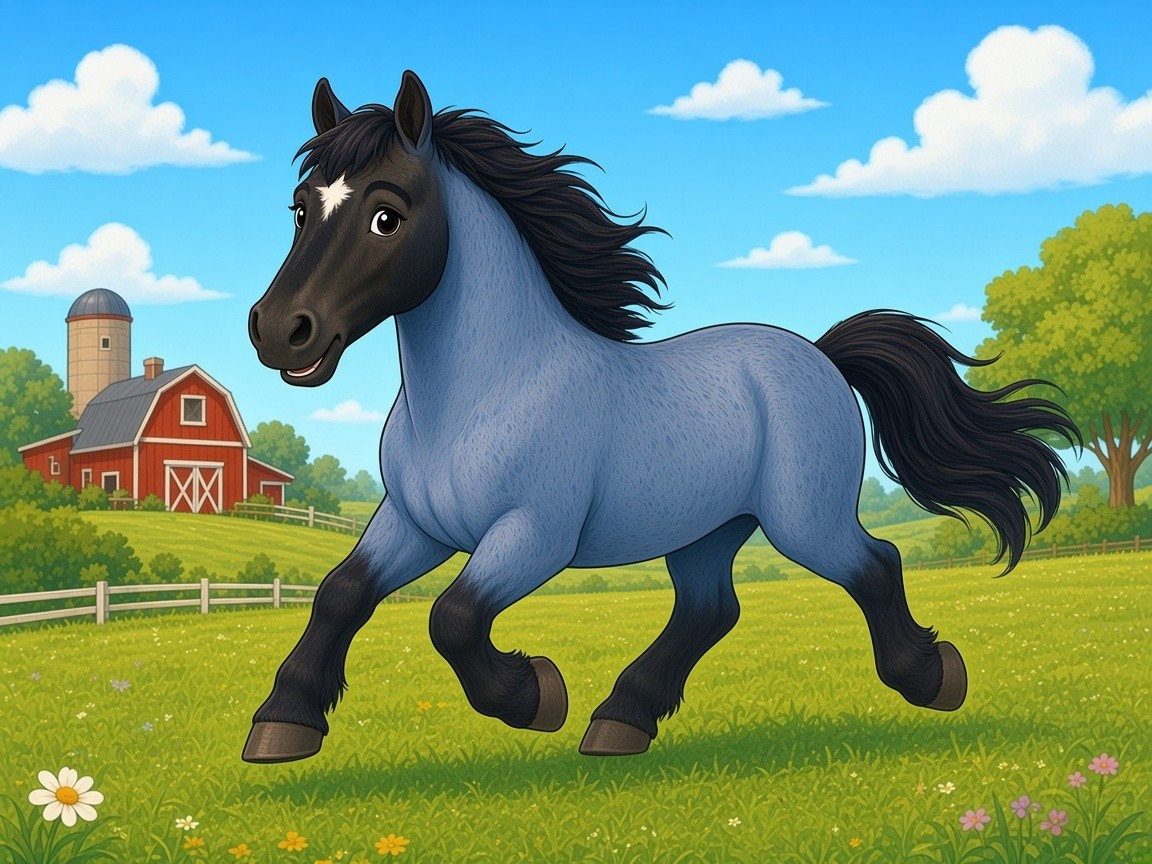
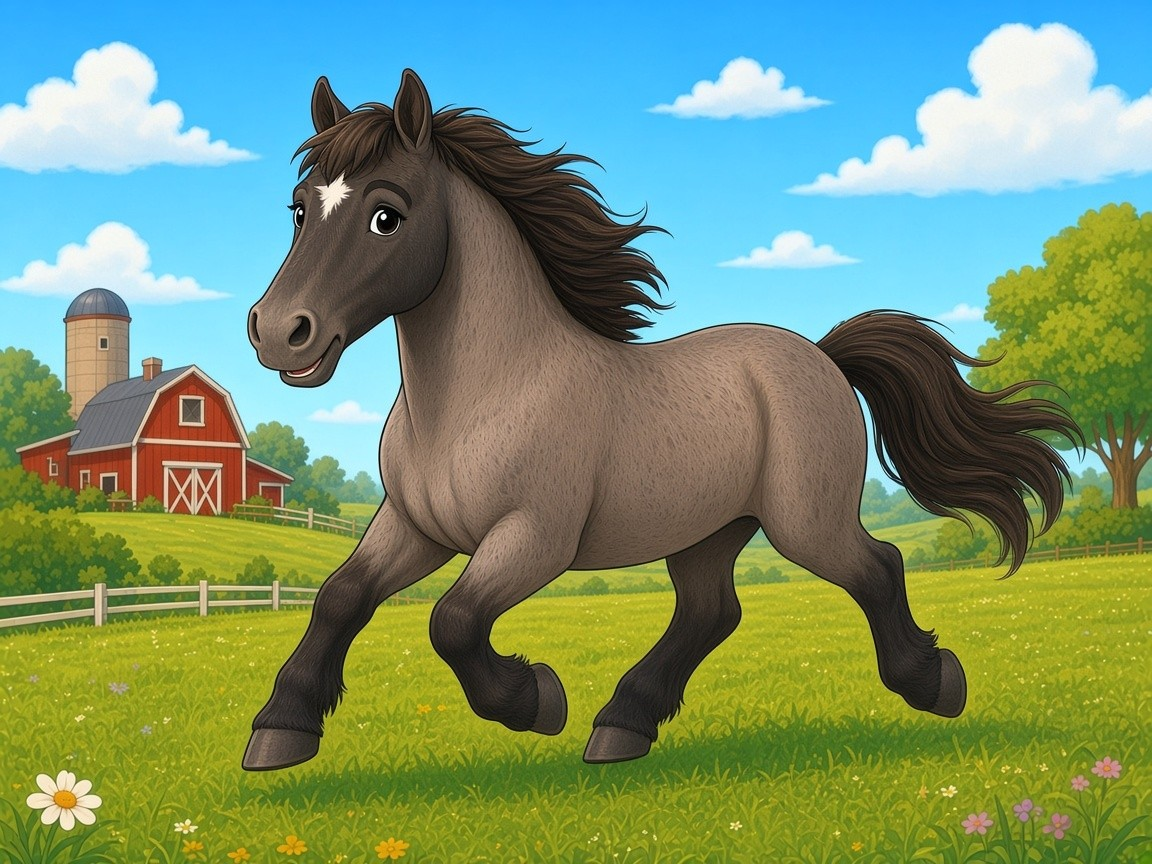
Update River's Run with the gray-coat art and shorter lines.
Each sentence stays on its own line, and the old blue-coat pictures are replaced in place.

diff --git a/stories/books/rivers-run-wolf-cry/index.html b/stories/books/rivers-run-wolf-cry/index.html
@@ -33,8 +33,8 @@
     width: auto;
     height: auto;
     max-width: 100%;
-    max-height: 62vh;
-    max-height: 62dvh;
+    max-height: 52vh;
+    max-height: 52dvh;
   }
 
   .spread-note .frame img {
@@ -49,7 +49,10 @@
     line-height: 1.45;
   }
 
-  .copy p { margin: 0; }
+  .copy p {
+    margin: 0;
+    white-space: pre-line;
+  }
 
   .copy h2 {
     margin: 0 0 10px;
@@ -59,11 +62,6 @@
     letter-spacing: -0.02em;
     line-height: 1.15;
     color: var(--pine-deep);
-  }
-
-  .copy strong {
-    font-weight: 800;
-    color: var(--ember-deep);
   }
 
   .questions {
@@ -184,19 +182,18 @@
   <article class="reader" id="book" aria-label="River's Run: River and the Wolf Cry">
     <section class="spread is-current" aria-label="Cover">
       <figure class="frame">
-        <img src="cover.jpg" width="864" height="1152" alt="Book cover. River the horse stands in a sunny pasture. The title reads River's Run: River and the Wolf Cry." fetchpriority="high">
+        <img src="cover.jpg" width="864" height="1152" alt="Book cover. River, a gray horse with a dark mane, stands in a sunny pasture. The title reads River's Run: River and the Wolf Cry." fetchpriority="high">
       </figure>
-      <div class="copy">
-        <p>River learns why telling the truth matters. A retelling of The Boy Who Cried Wolf.</p>
-      </div>
     </section>
 
     <section class="spread" aria-label="Page 1">
       <figure class="frame">
-        <img src="page01.jpg" width="1152" height="864" alt="River, a horse with a shiny coat and a swishy tail, on a big green farm." loading="lazy">
+        <img src="page01.jpg" width="1152" height="864" alt="River, a gray horse, on a big green farm." loading="lazy">
       </figure>
       <div class="copy">
-        <p>This is River. River is a horse who lives on a big green farm. He has a shiny coat and a swishy tail.</p>
+        <p>This is River.
+River is a horse.
+He lives on a big green farm.</p>
       </div>
     </section>
 
@@ -205,7 +202,10 @@
         <img src="page02.jpg" width="1152" height="864" alt="River watching the field, ready to neigh if he sees danger." loading="lazy">
       </figure>
       <div class="copy">
-        <p>River's job is to watch the field. If he sees danger, he neighs loud: <strong>"NEIGH! NEIGH!"</strong> Then all the animals run to the barn.</p>
+        <p>River has a job.
+He watches the field.
+If he sees danger, he neighs, "NEIGH! NEIGH!"
+Then all the animals run to the barn.</p>
       </div>
     </section>
 
@@ -214,7 +214,8 @@
         <img src="page03.jpg" width="1152" height="864" alt="River looking bored on a sunny day." loading="lazy">
       </figure>
       <div class="copy">
-        <p>One sunny day, River was bored. "Watching is so slow," he sighed.</p>
+        <p>One sunny day, River was bored.
+"Watching is so slow," he sighed.</p>
       </div>
     </section>
 
@@ -223,7 +224,8 @@
         <img src="page04.jpg" width="1152" height="864" alt="River thinking about neighing just for fun." loading="lazy">
       </figure>
       <div class="copy">
-        <p>River had an idea. "What if I neigh loud, just for fun?"</p>
+        <p>River had an idea.
+"What if I neigh, just for fun?"</p>
       </div>
     </section>
 
@@ -232,7 +234,10 @@
         <img src="page05.jpg" width="1152" height="864" alt="The cows, goats, and chickens running all the way to the barn." loading="lazy">
       </figure>
       <div class="copy">
-        <p><strong>"NEIGH! NEIGH! Danger!"</strong> The cows ran. The goats ran. The chickens flapped and squawked all the way to the barn.</p>
+        <p>"NEIGH! NEIGH! Danger!"
+The cows ran.
+The goats ran.
+The chickens flapped all the way to the barn.</p>
       </div>
     </section>
 
@@ -241,16 +246,19 @@
         <img src="page06.jpg" width="1152" height="864" alt="River laughing because he tricked the other animals." loading="lazy">
       </figure>
       <div class="copy">
-        <p>But there was no danger. River laughed. "Hee hee! I tricked you!"</p>
+        <p>But there was no danger.
+River laughed.
+"Hee hee! I tricked you!"</p>
       </div>
     </section>
 
     <section class="spread" aria-label="Page 7">
       <figure class="frame">
-        <img src="page07.jpg" width="1152" height="864" alt="The tired animals, and Old Cow telling River that wasn't nice." loading="lazy">
+        <img src="page07.jpg" width="1152" height="864" alt="The tired animals, and Old Cow telling River that was not nice." loading="lazy">
       </figure>
       <div class="copy">
-        <p>The animals were tired and sad. "That wasn't nice, River," said Old Cow.</p>
+        <p>The animals were tired and sad.
+"That was not nice, River," said Old Cow.</p>
       </div>
     </section>
 
@@ -259,34 +267,46 @@
         <img src="page08.jpg" width="1152" height="864" alt="Everyone running again while nobody laughs." loading="lazy">
       </figure>
       <div class="copy">
-        <p>The next day, River did it again. <strong>"NEIGH! NEIGH!"</strong> Everyone ran. No danger again. This time, nobody laughed.</p>
+        <p>The next day, River did it again.
+"NEIGH! NEIGH!"
+Everyone ran.
+There was no danger.
+This time, nobody laughed.</p>
       </div>
     </section>
 
     <section class="spread" aria-label="Page 9">
       <figure class="frame">
-        <img src="page09.jpg" width="1152" height="864" alt="River seeing a real wolf hiding in the tall grass." loading="lazy">
+        <img src="page09.jpg" width="1152" height="864" alt="River seeing a real wolf in the tall grass." loading="lazy">
       </figure>
       <div class="copy">
-        <p>Then one evening, River saw something in the tall grass. Gray fur. Sharp eyes. A real wolf!</p>
+        <p>One evening, River saw something in the tall grass.
+Gray fur.
+Sharp eyes.
+A real wolf!</p>
       </div>
     </section>
 
     <section class="spread" aria-label="Page 10">
       <figure class="frame">
-        <img src="page10.jpg" width="1152" height="864" alt="River crying wolf while the cows and goats keep eating." loading="lazy">
+        <img src="page10.jpg" width="1152" height="864" alt="River neighing while the cows and goats keep eating." loading="lazy">
       </figure>
       <div class="copy">
-        <p><strong>"NEIGH! NEIGH! A REAL WOLF!"</strong> River cried. But the cows kept eating. The goats kept chewing. "It's just River playing again," they said.</p>
+        <p>"NEIGH! NEIGH! A REAL WOLF!"
+But the cows kept eating.
+The goats kept chewing.
+"It's just River playing again," they said.</p>
       </div>
     </section>
 
     <section class="spread" aria-label="Page 11">
       <figure class="frame">
-        <img src="page11.jpg" width="1152" height="864" alt="River pushing each animal toward the barn." loading="lazy">
+        <img src="page11.jpg" width="1152" height="864" alt="River pushing each friend to the barn." loading="lazy">
       </figure>
       <div class="copy">
-        <p>River's heart pounded. Nobody was listening. He had to run to each animal, one by one, and push them toward the barn.</p>
+        <p>River's heart went thump, thump, thump.
+Nobody was listening!
+So River ran to each friend and pushed them to the barn.</p>
       </div>
     </section>
 
@@ -295,25 +315,31 @@
         <img src="page12.jpg" width="1152" height="864" alt="Everyone safe inside while the wolf runs away. River is shaking." loading="lazy">
       </figure>
       <div class="copy">
-        <p>Everyone got inside just in time. The wolf ran away. River was shaking.</p>
+        <p>Everyone got inside just in time.
+The wolf ran away.
+River was shaking.</p>
       </div>
     </section>
 
     <section class="spread" aria-label="Page 13">
       <figure class="frame">
-        <img src="page13.jpg" width="1152" height="864" alt="River lying in the hay that night, thinking hard." loading="lazy">
+        <img src="page13.jpg" width="1152" height="864" alt="River lying in the hay that night, thinking." loading="lazy">
       </figure>
       <div class="copy">
-        <p>That night, River lay in the hay and thought hard. "Why didn't they come when I called?"</p>
+        <p>That night, River lay in the hay.
+He thought and thought.
+"Why didn't they come when I called?"</p>
       </div>
     </section>
 
     <section class="spread" aria-label="Page 14">
       <figure class="frame">
-        <img src="page14.jpg" width="1152" height="864" alt="River figuring out that his friends stopped believing him." loading="lazy">
+        <img src="page14.jpg" width="1152" height="864" alt="River realizing his friends stopped believing him." loading="lazy">
       </figure>
       <div class="copy">
-        <p>Then River figured it out. "When I said 'danger' and there was none, my words stopped meaning anything. They stopped believing me."</p>
+        <p>Then River knew.
+"I said 'danger' when there was none.
+So they stopped believing me."</p>
       </div>
     </section>
 
@@ -322,7 +348,9 @@
         <img src="page15.jpg" width="1152" height="864" alt="River telling his friends he is sorry and will tell the truth." loading="lazy">
       </figure>
       <div class="copy">
-        <p>River walked to his friends. "I'm sorry I tricked you. From now on, I will only tell the truth, so you can always trust me."</p>
+        <p>River went to his friends.
+"I'm sorry I tricked you.
+From now on, I will tell the truth."</p>
       </div>
     </section>
 
@@ -331,30 +359,33 @@
         <img src="page16.jpg" width="1152" height="864" alt="River with his friends, who trust him again." loading="lazy">
       </figure>
       <div class="copy">
-        <p>And River kept his promise. Every day he told the truth, and slowly, his friends trusted him again.</p>
+        <p>River kept his promise.
+Every day he told the truth.
+Little by little, his friends trusted him again.</p>
       </div>
     </section>
 
     <section class="spread spread-note" aria-label="The lesson">
       <figure class="frame">
-        <img src="closing.jpg" width="1152" height="864" alt="River standing with the cows, goats, and a chicken in the sunset field." loading="lazy">
+        <img src="closing.jpg" width="1152" height="864" alt="River standing with the farm animals at sunset." loading="lazy">
       </figure>
       <div class="copy">
         <h2>The lesson</h2>
-        <p>When you tell the truth, people believe you. When you trick people, they stop listening, even when it really matters.</p>
+        <p>When you tell the truth, people believe you.
+When you trick people, they stop listening, even when it really matters.</p>
       </div>
     </section>
 
-    <section class="spread spread-note" aria-label="Talk about it">
+    <section class="spread spread-note" aria-label="Let's talk">
       <figure class="frame">
-        <img src="closing.jpg" width="1152" height="864" alt="River standing with the cows, goats, and a chicken in the sunset field." loading="lazy">
+        <img src="closing.jpg" width="1152" height="864" alt="River standing with the farm animals at sunset." loading="lazy">
       </figure>
       <div class="copy">
-        <h2>Talk about it</h2>
+        <h2>Let's talk</h2>
         <ul class="questions">
           <li>Why didn't the animals come the last time?</li>
-          <li>How did River earn their trust back?</li>
-          <li>Can you think of a time telling the truth was hard?</li>
+          <li>How did River get his friends to trust him again?</li>
+          <li>When was a time telling the truth was hard for you?</li>
         </ul>
       </div>
     </section>
